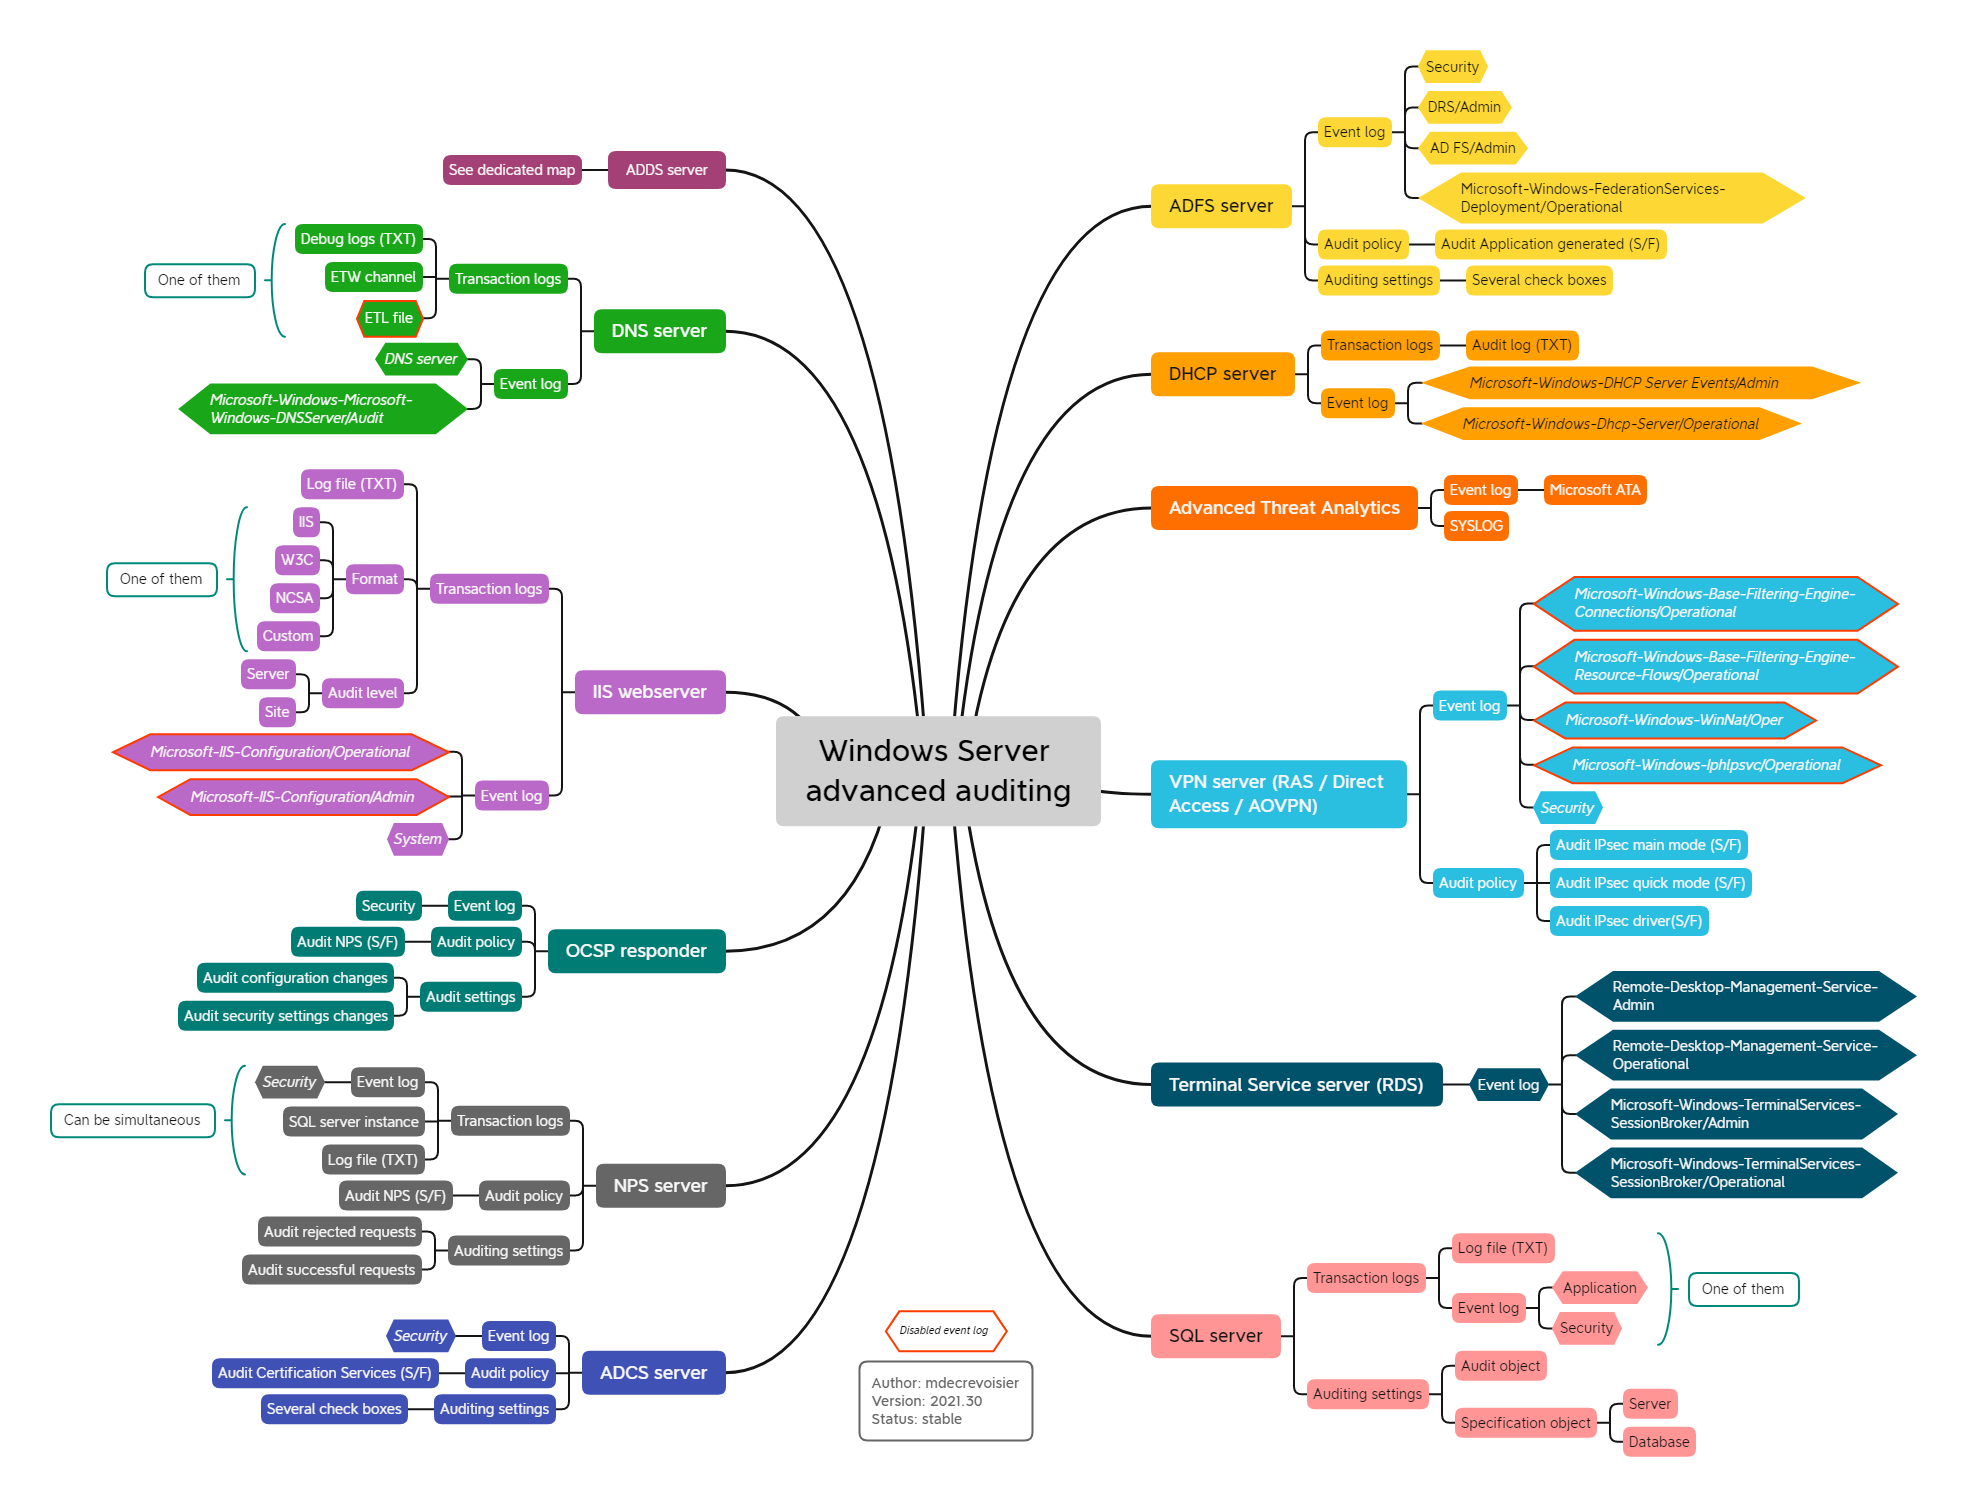
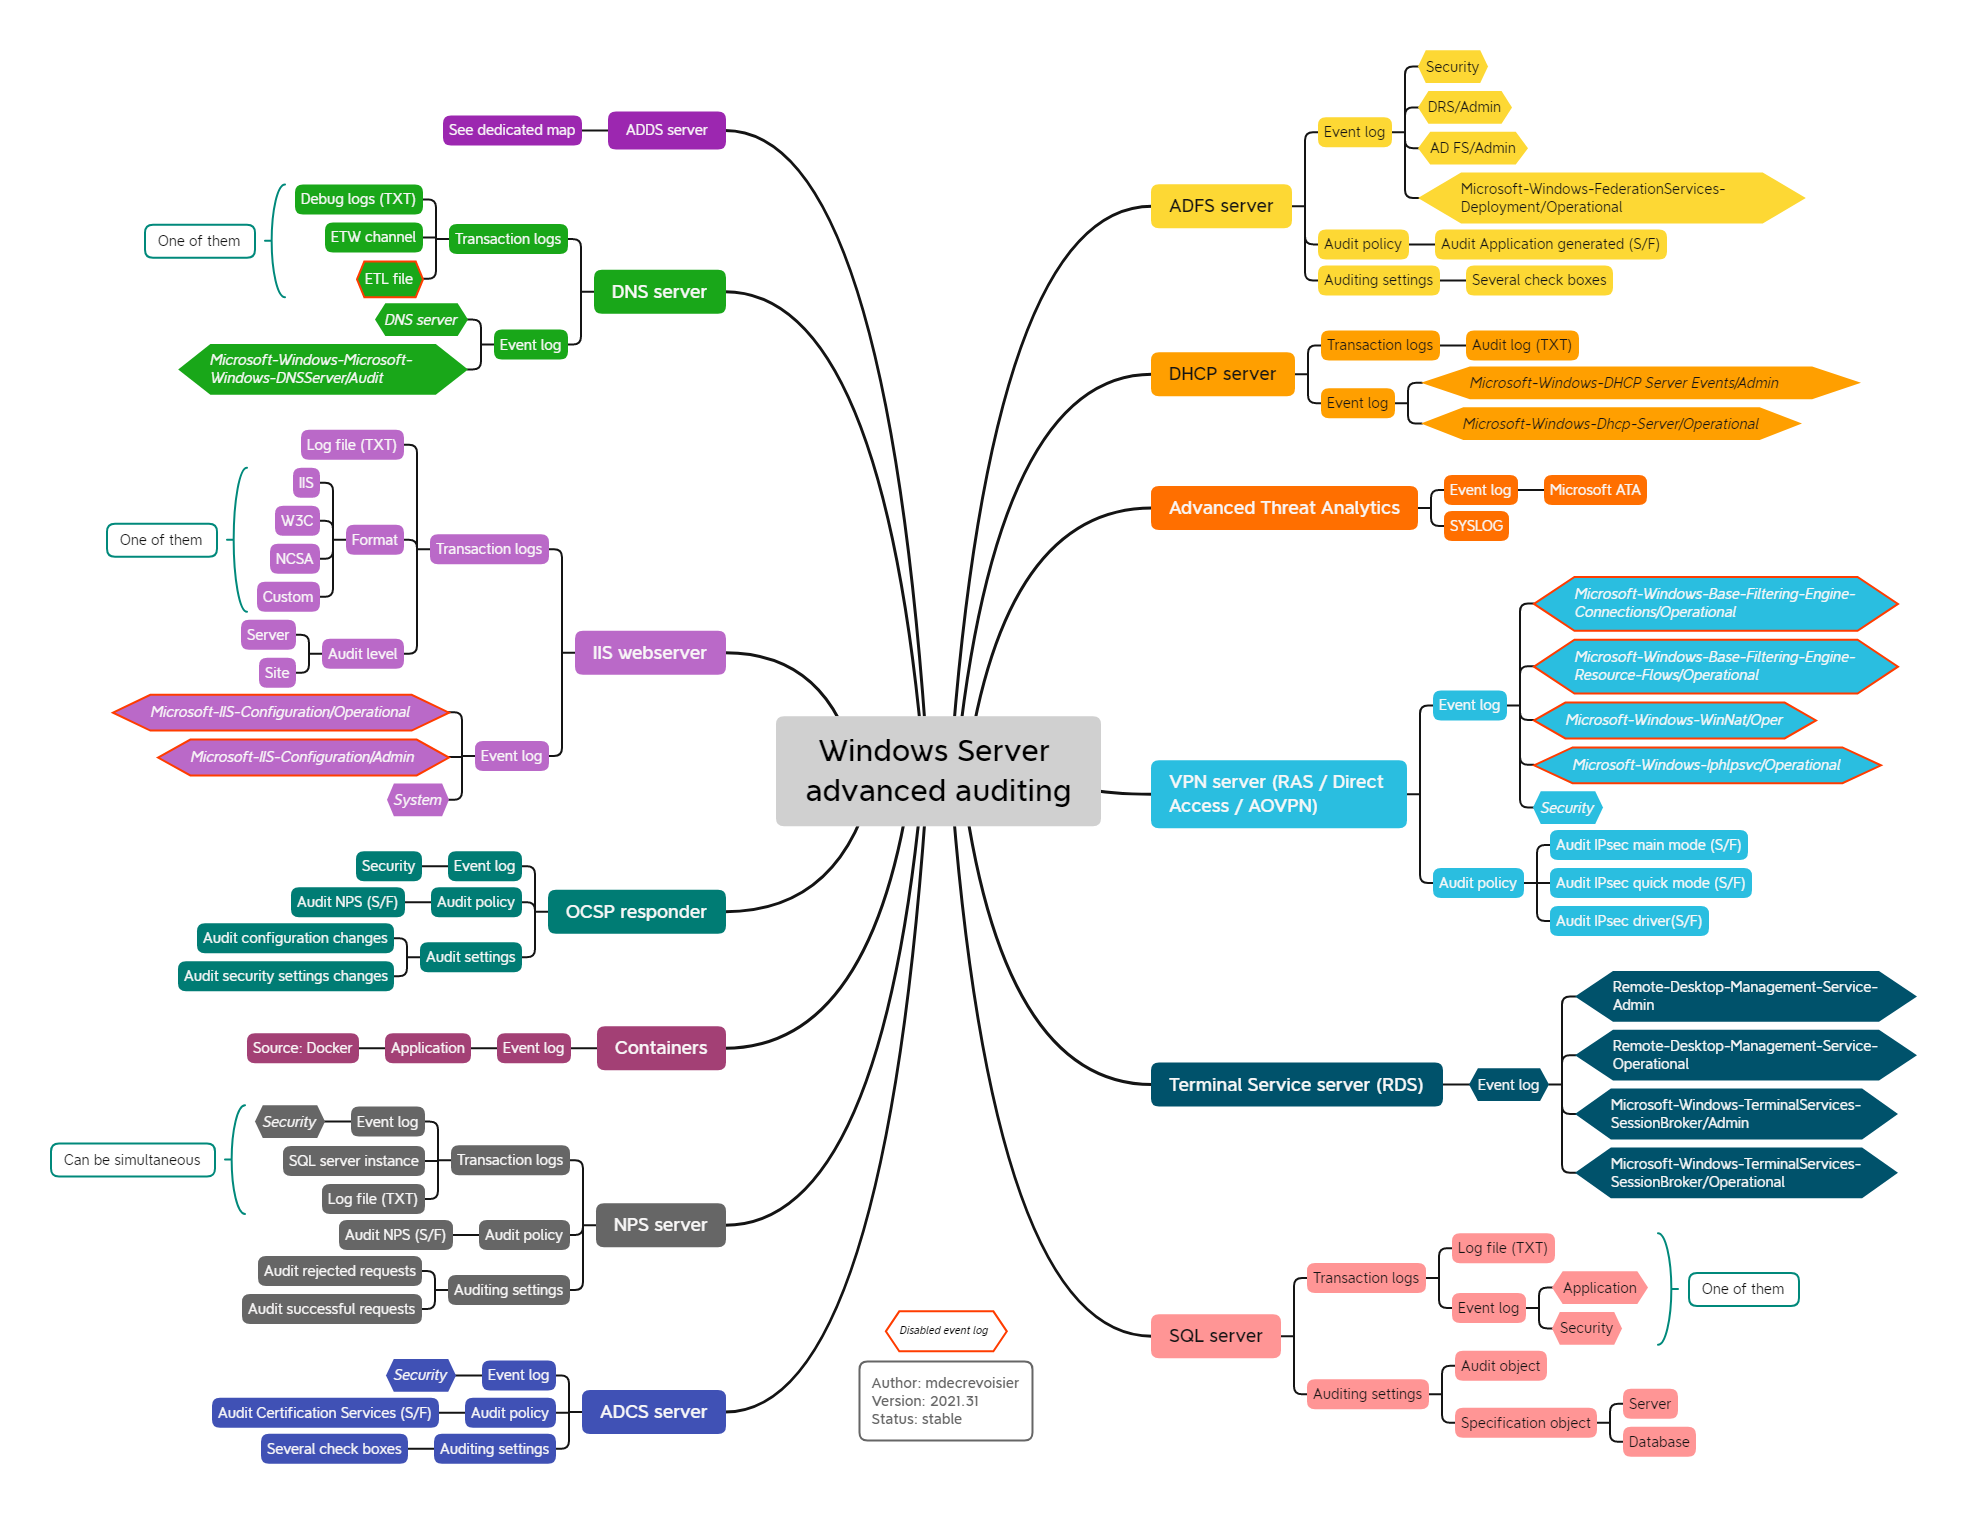
release maps

diff --git a/README.md b/README.md
@@ -1,20 +1,27 @@
 # Windows-auditing-mindmap
  
 ## Project purpose
-**Windows auditing mindmap** provide a simplified view of Windows Event logs and auditing capacities that enable defenders to enhance visibility on their assets.
+**Windows auditing mindmap** provides a simplified view of Windows Event logs and auditing capacities that enables defenders to enhance visibility for different scenarios:
+* Log collection into a SIEM
+* Threat hunting
+* Forensic
 
 ## Mindmaps
-The following mindmaps are currently provided (PNG and PDF):
-* Windows advanced auditing
-* Active Directory auditing
+The following mindmaps are currently provided:
+* Windows OS auditing baseline
 * Windows Server roles auditing (also covers SQL Server and 
 Advanced Threat Analytics)
+* Active Directory (ADDS) auditing
 
-# Windows advanced auditing
-![](/windows-advanced-auditing-map/windows-advanced-auditing-map.png)
-
-# Active Directory auditing
-![](/active-directory-map/active-directory-map.png)
+# Windows OS auditing baseline
+This map provides an overview of the native Event logs shipped in Windows OS. They are classified into different categories (network, security, application,...) and their related auditing settings.
+![](/windows-auditing-baseline-map/windows-auditing-baseline-map.png)
 
 # Windows Server roles auditing
+This map provides an overview of the different Event logs and auditing capacities provided by Windows Server roles (ADCS, DHCP, DNS, OCSP, IIS, NPS, ADFS...).
 ![](/windows-server-roles-map/windows-server-roles-map.png)
+
+# Active Directory auditing
+his map provides an overview of the different Event logs and auditing capacities provided by Active Directory (ADDS) role.
+![](/active-directory-map/active-directory-map.png)
+
